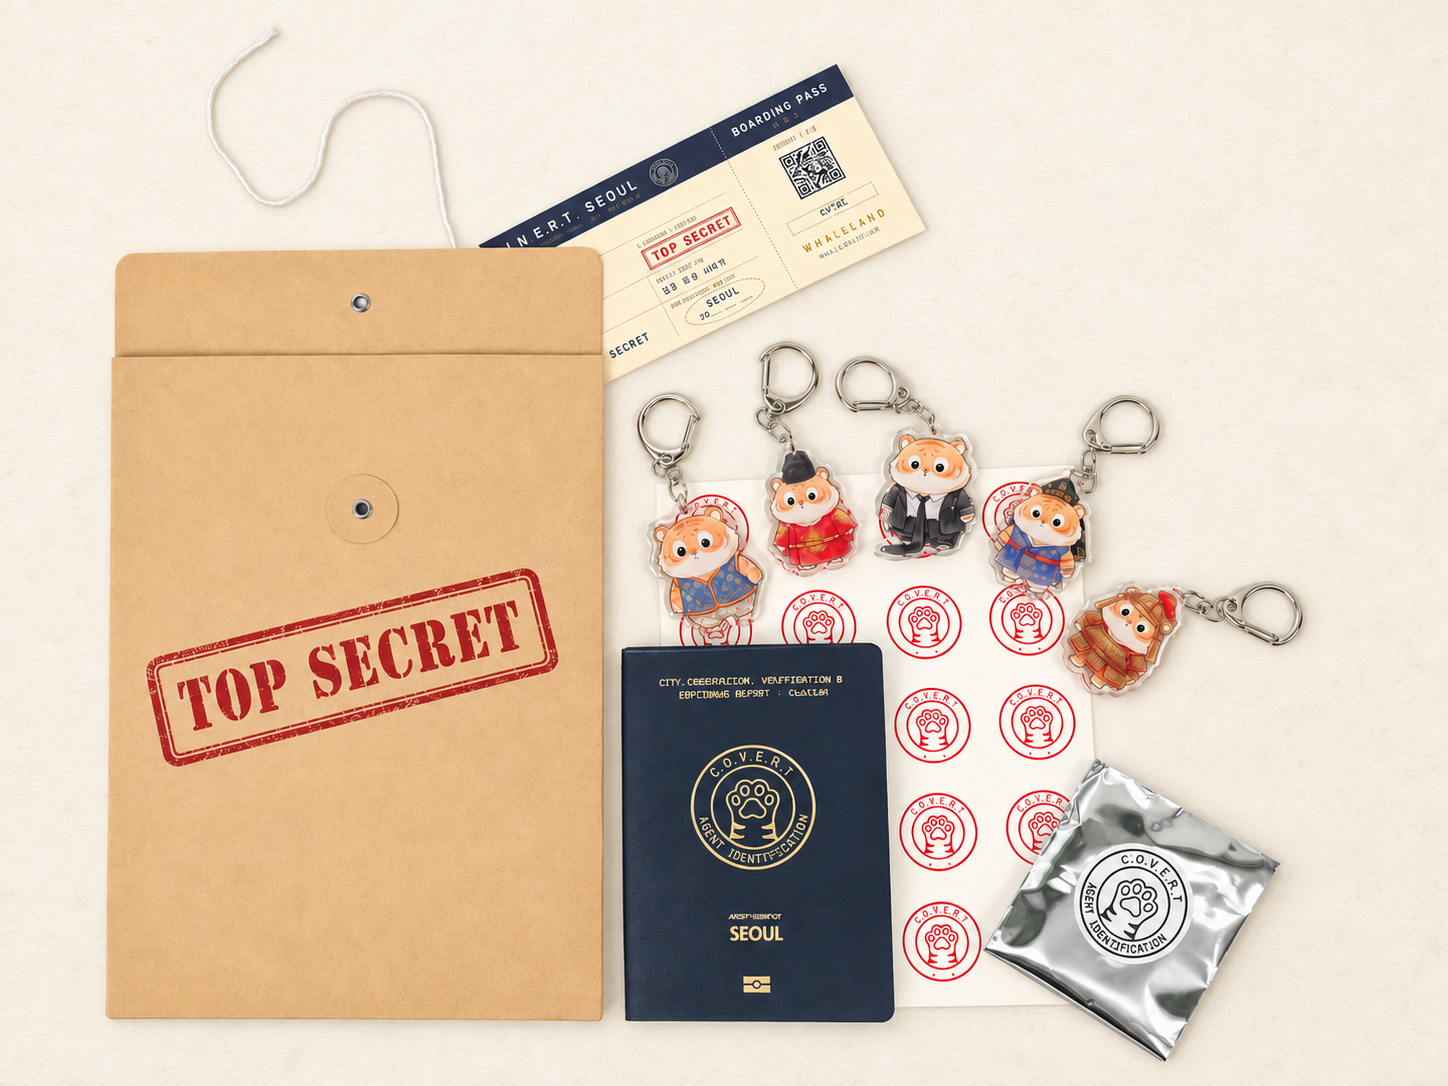
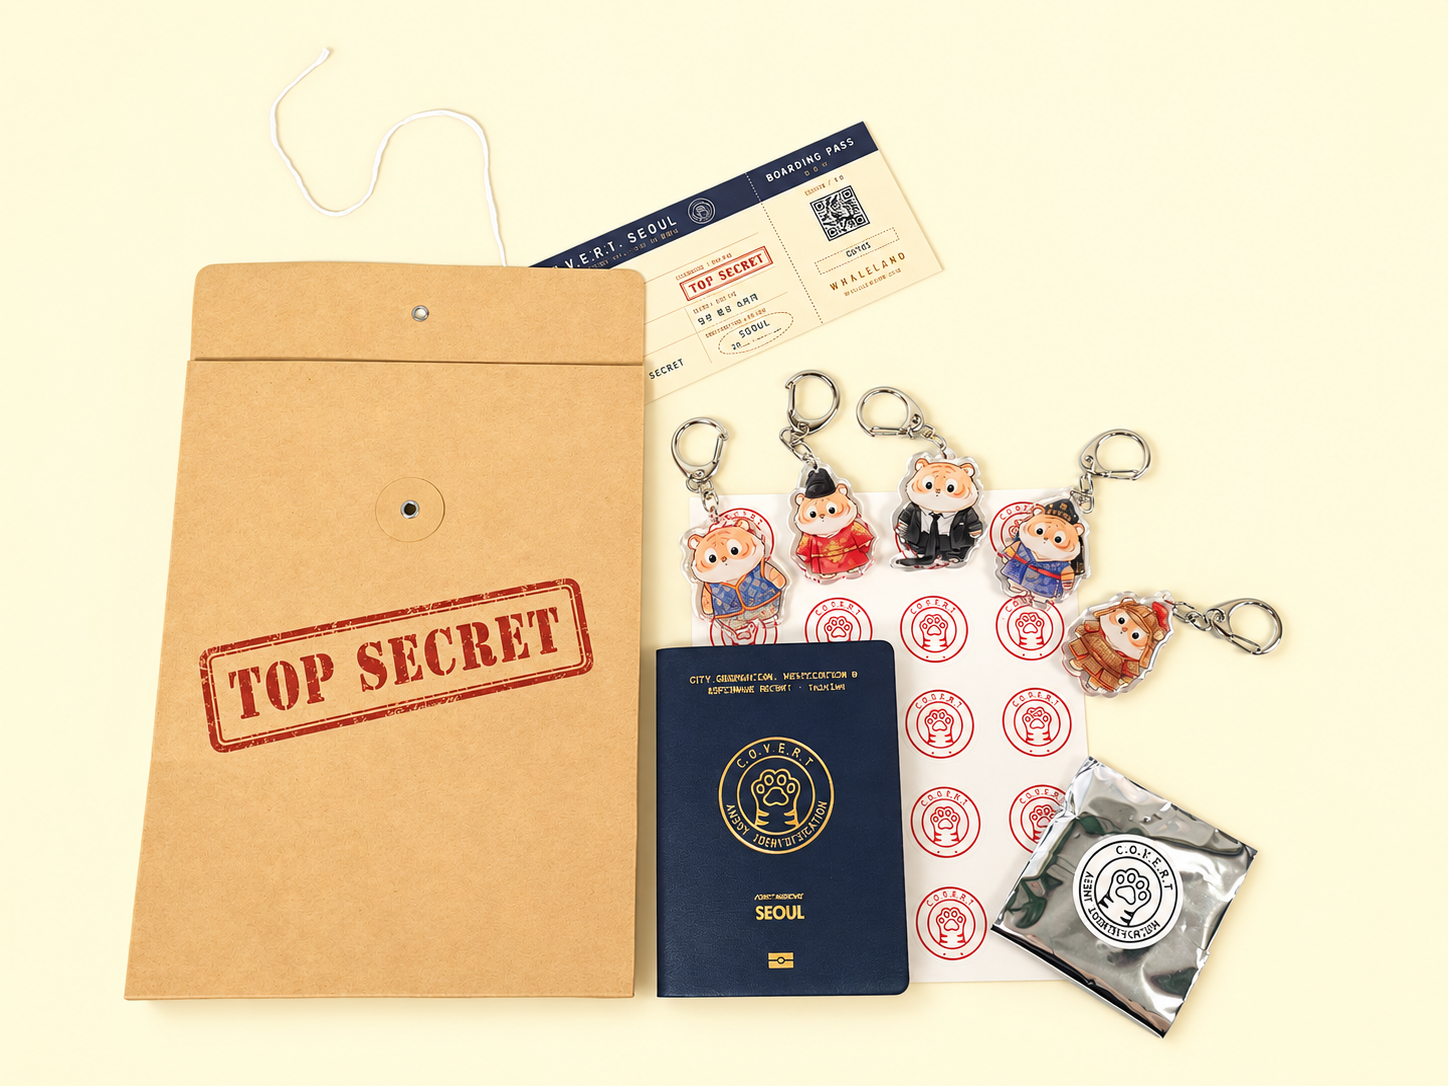
Replace kit overview with the supplied yellow-background image

diff --git a/covert/jp/kit/index.html b/covert/jp/kit/index.html
@@ -254,7 +254,7 @@
   <div class="wrap">
     <div class="shot rv">
       <span class="photo-window" data-photo="01" style="--crop-ratio:1.1599229287;--photo-left:-8.63787375%;--photo-top:-2.50481696%;--photo-width:120.26578073%;--photo-height:104.62427746%">
-                <img src="../../assets/cream/kit-all.webp?v=f986501e" width="1448" height="1086"
+                <img src="../../assets/cream/kit-all.webp?v=a679a66a" width="1448" height="1086"
            loading="lazy" decoding="async"
            alt="C.O.V.E.R.Tミッションキットの構成品を広げたところ">
               </span>

diff --git a/covert/kr/kit/index.html b/covert/kr/kit/index.html
@@ -254,7 +254,7 @@
   <div class="wrap">
     <div class="shot rv">
       <span class="photo-window" data-photo="01" style="--crop-ratio:1.1599229287;--photo-left:-8.63787375%;--photo-top:-2.50481696%;--photo-width:120.26578073%;--photo-height:104.62427746%">
-                <img src="../../assets/cream/kit-all.webp?v=f986501e" width="1448" height="1086"
+                <img src="../../assets/cream/kit-all.webp?v=a679a66a" width="1448" height="1086"
            loading="lazy" decoding="async"
            alt="C.O.V.E.R.T 미션 키트의 구성품을 펼쳐 놓은 모습">
               </span>

diff --git a/covert/kit/index.html b/covert/kit/index.html
@@ -254,7 +254,7 @@
   <div class="wrap">
     <div class="shot rv">
       <span class="photo-window" data-photo="01" style="--crop-ratio:1.1599229287;--photo-left:-8.63787375%;--photo-top:-2.50481696%;--photo-width:120.26578073%;--photo-height:104.62427746%">
-                <img src="../assets/cream/kit-all.webp?v=f986501e" width="1448" height="1086"
+                <img src="../assets/cream/kit-all.webp?v=a679a66a" width="1448" height="1086"
            loading="lazy" decoding="async"
            alt="The components of the C.O.V.E.R.T mission kit, laid out together">
               </span>

diff --git a/covert/cn/kit/index.html b/covert/cn/kit/index.html
@@ -254,7 +254,7 @@
   <div class="wrap">
     <div class="shot rv">
       <span class="photo-window" data-photo="01" style="--crop-ratio:1.1599229287;--photo-left:-8.63787375%;--photo-top:-2.50481696%;--photo-width:120.26578073%;--photo-height:104.62427746%">
-                <img src="../../assets/cream/kit-all.webp?v=f986501e" width="1448" height="1086"
+                <img src="../../assets/cream/kit-all.webp?v=a679a66a" width="1448" height="1086"
            loading="lazy" decoding="async"
            alt="C.O.V.E.R.T任务套装的组成物品平铺展示">
               </span>
